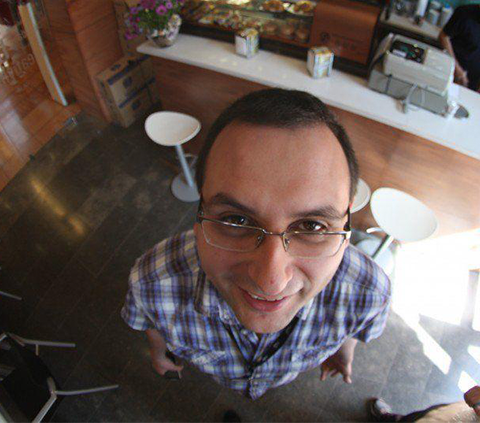
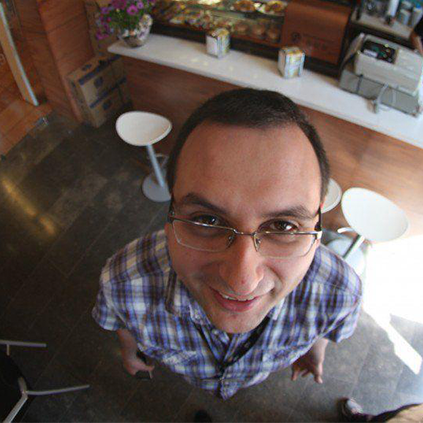
made some portraits square, added svg to header and footer for scaling

diff --git a/src/components/foundation_site/header.js b/src/components/foundation_site/header.js
@@ -1,11 +1,13 @@
 import React from 'react';
 import {Grid, Row, Col} from 'react-bootstrap';
+import {Link} from 'react-router-dom';
 import background from '../../img/foundation_site/header_background.png';
+import svg_background from '../../img/foundation_site/TFG_Header_Footer.svg';
 import logo from '../../img/Telos_MarketingSite_TelosIcon_334px.png';
 import '../../styles/foundation_site/header.css';
 
 const headerStyle = {
-	backgroundImage: `url(${background})`
+	backgroundImage: `url(${svg_background})`
 };
 
 const Header = () => {
@@ -15,9 +17,11 @@ const Header = () => {
 			style={headerStyle}
 		>
 			<Grid fluid>
-				<a href='https://telosfoundation.io'>
-					<img src={logo} alt='logo' className='logo'/>
-				</a>
+				<div className='content_container'>
+					<Link to='/'>
+						<img src={logo} alt='logo' className='logo'/>
+					</Link>
+				</div>
 			</Grid>
 		</header>
 	);

diff --git a/src/components/foundation_site/footer.js b/src/components/foundation_site/footer.js
@@ -2,18 +2,19 @@ import React from 'react';
 import {Grid, Row, Col} from 'react-bootstrap';
 
 import background from '../../img/foundation_site/footer_background.png';
+import svg_background from '../../img/foundation_site/TFG_Header_Footer.svg';
 import logo_wire from '../../img/foundation_site/logo_wire.png';
 import '../../styles/foundation_site/footer.css';
 
 const footerStyle = {
-	backgroundImage: `url(${background})`
+	backgroundImage: `url(${svg_background})`
 };
+
 
 const Footer = () => {
 	return (
 		<footer
 			className='foundation_footer'
-			style={footerStyle}
 		>
 			<Grid fluid>
 				<div className='footer_row'>
@@ -33,6 +34,7 @@ const Footer = () => {
 					</div>
 				</div>
 			</Grid>
+			<div className='footer_background' style={footerStyle}></div>
 		</footer>
 	);
 };

diff --git a/src/styles/foundation_site/footer.css b/src/styles/foundation_site/footer.css
@@ -2,6 +2,8 @@
 	background-size: 100% 100%;
 	padding-top: 75px;
 	padding-bottom: 10px;
+	position: relative;
+	z-index: 1;
 }
 
 .foundation_footer .footer_row {
@@ -81,4 +83,14 @@
 .foundation_footer .inline_links ul li a:active,
 .foundation_footer .inline_links ul li a:focus {
 	color: #fff;
+}
+
+.foundation_footer .footer_background {
+	position: absolute;
+	top: 0;
+	left: 0;
+	width: 100%;
+	height: 100%;
+	z-index: -1;
+	transform: rotateZ(180deg);
 }

diff --git a/src/styles/foundation_site/header.css b/src/styles/foundation_site/header.css
@@ -7,3 +7,7 @@
 	width: 55px;
 	max-width: 100%;
 }
+
+.foundation_header .content_container {
+	padding: 0 20px;
+}
